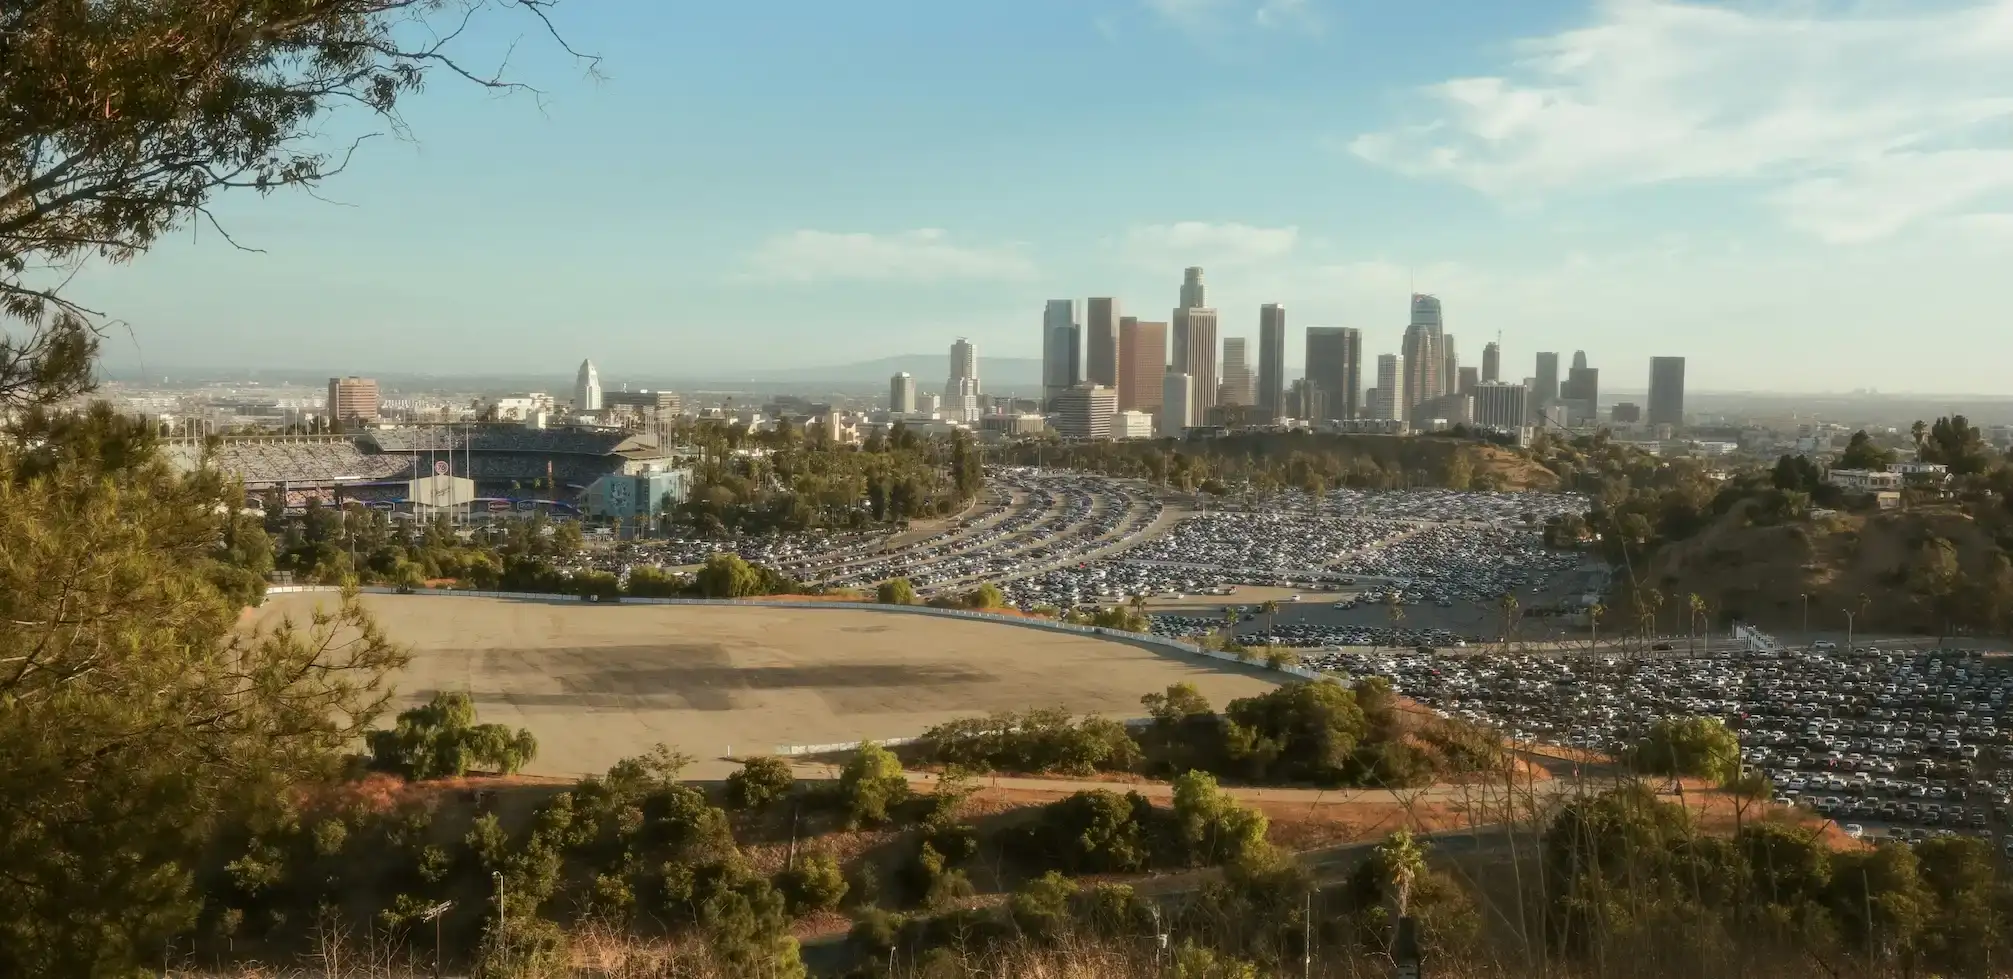
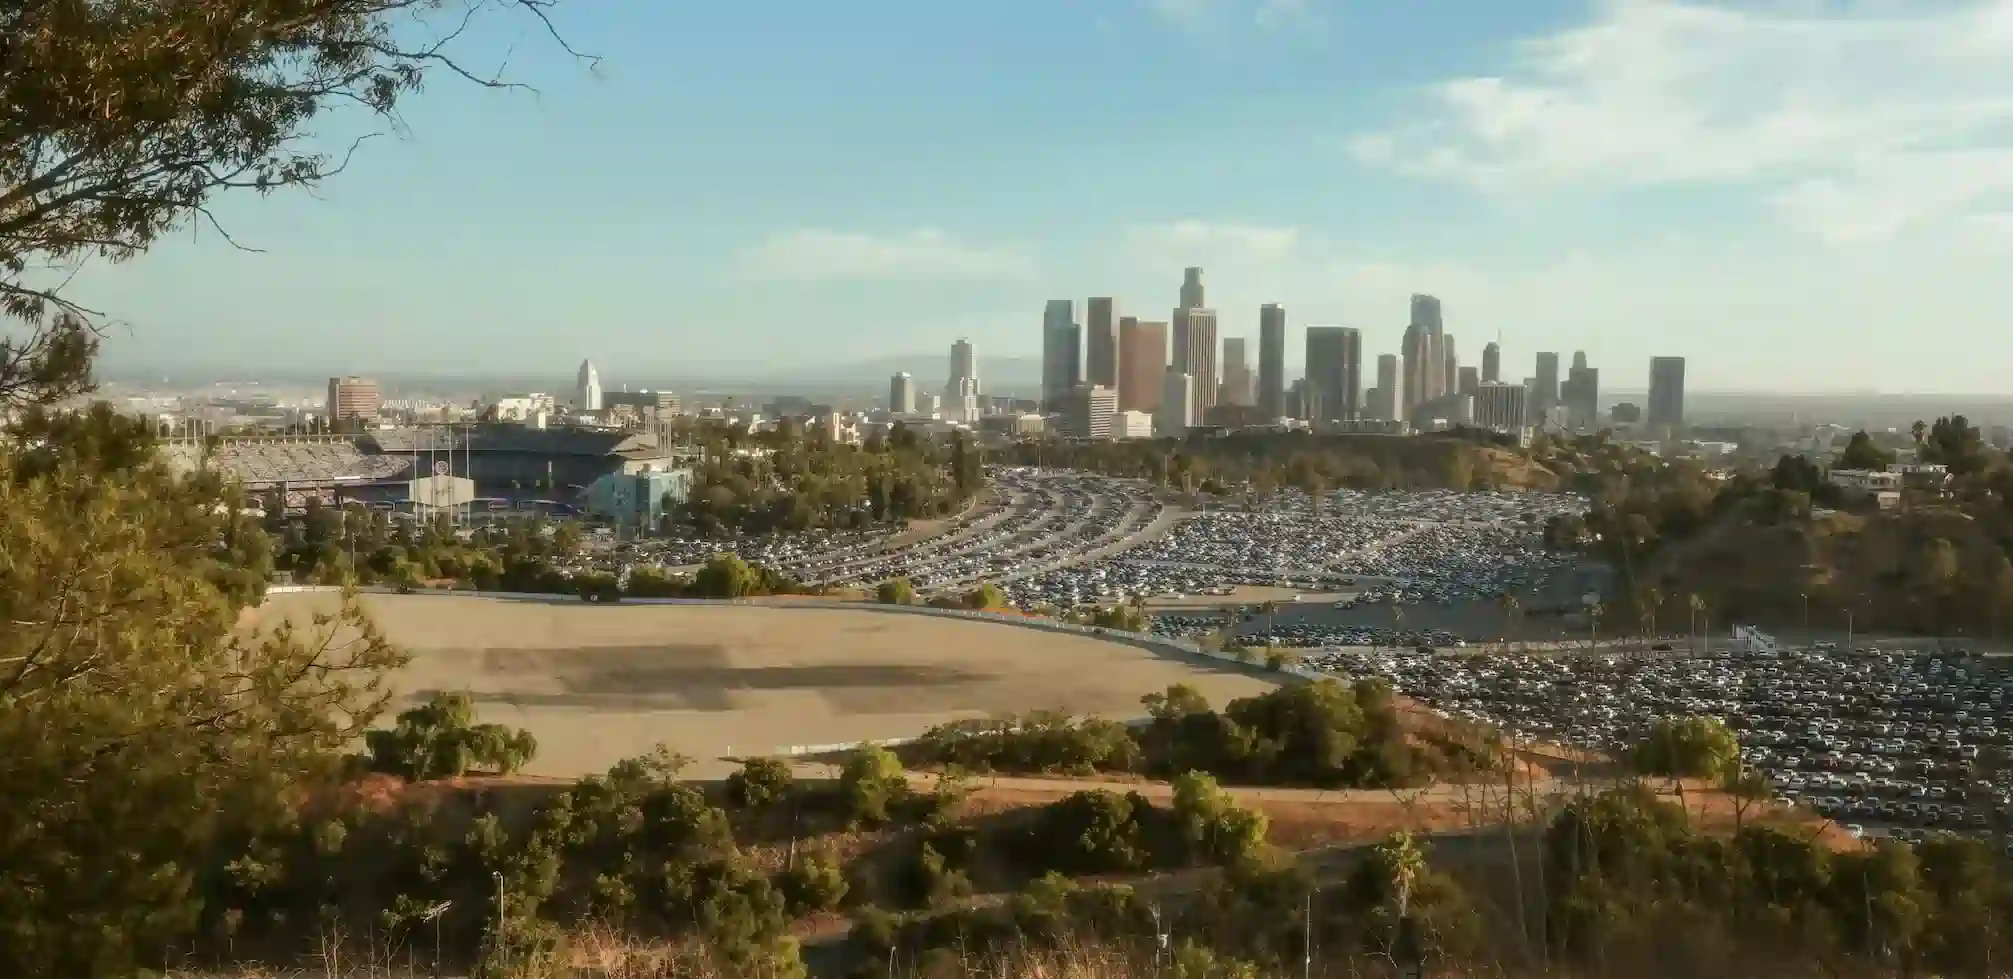
Optimize asset loading and add high-res header swap
Refactors CSS and JS loading to lazy-load non-critical assets (Prism and lite-yt) only when needed, reducing initial page load. Adds logic to swap the masthead background to a high-resolution image after load. Updates Nunjucks templates to support new asset loading and background image swapping. Also updates about.webp and header.webp images.

diff --git a/src/assets/js/scripts.js b/src/assets/js/scripts.js
@@ -12,6 +12,75 @@ window.addEventListener('DOMContentLoaded', () => {
         });
     }
 
+    // Lazy-load non-critical assets (Prism/lite-yt) when needed
+    const assets = window.assetPaths || {};
+
+    const injectStylesheet = (href) => {
+        if (!href || document.querySelector(`link[href="${href}"]`)) return;
+        const l = document.createElement('link');
+        l.rel = 'stylesheet';
+        l.href = href;
+        document.head.appendChild(l);
+    };
+
+    const injectScript = (src) => {
+        if (!src || document.querySelector(`script[src="${src}"]`)) return;
+        const s = document.createElement('script');
+        s.src = src;
+        s.defer = true;
+        document.body.appendChild(s);
+    };
+
+    const lazyLoadAssets = ({ selector, css, js, rootMargin = '300px' }) => {
+        const targets = document.querySelectorAll(selector);
+        if (!targets.length) return;
+        const load = () => {
+            if (css) injectStylesheet(css);
+            if (js) injectScript(js);
+        };
+        const observer = new IntersectionObserver((entries, obs) => {
+            if (entries.some(e => e.isIntersecting)) {
+                load();
+                obs.disconnect();
+            }
+        }, { rootMargin });
+        targets.forEach(t => observer.observe(t));
+    };
+
+    // Prism CSS only when code blocks are present/near view
+    lazyLoadAssets({
+        selector: 'pre code',
+        css: assets.prismCss
+    });
+
+    // Lite YouTube assets only when a lite-youtube element is near view
+    lazyLoadAssets({
+        selector: 'lite-youtube',
+        css: assets.liteCss,
+        js: assets.liteJs
+    });
+
+    // Swap masthead background to high-res after load
+    const swapHero = () => {
+        const masthead = document.querySelector('.masthead[data-bg-high]');
+        if (!masthead) return;
+        const high = masthead.getAttribute('data-bg-high');
+        const low = masthead.getAttribute('data-bg-low');
+        if (!high || high === low) return;
+        const img = new Image();
+        img.decoding = 'async';
+        img.onload = () => {
+            masthead.style.backgroundImage = `url('${high}')`;
+            masthead.dataset.bgLoaded = 'true';
+        };
+        img.src = high;
+    };
+    if ('requestIdleCallback' in window) {
+        requestIdleCallback(swapHero);
+    } else {
+        setTimeout(swapHero, 0);
+    }
+
     window.addEventListener('scroll', function() {
         const currentTop = document.body.getBoundingClientRect().top * -1;
         if ( currentTop < scrollPos) {
